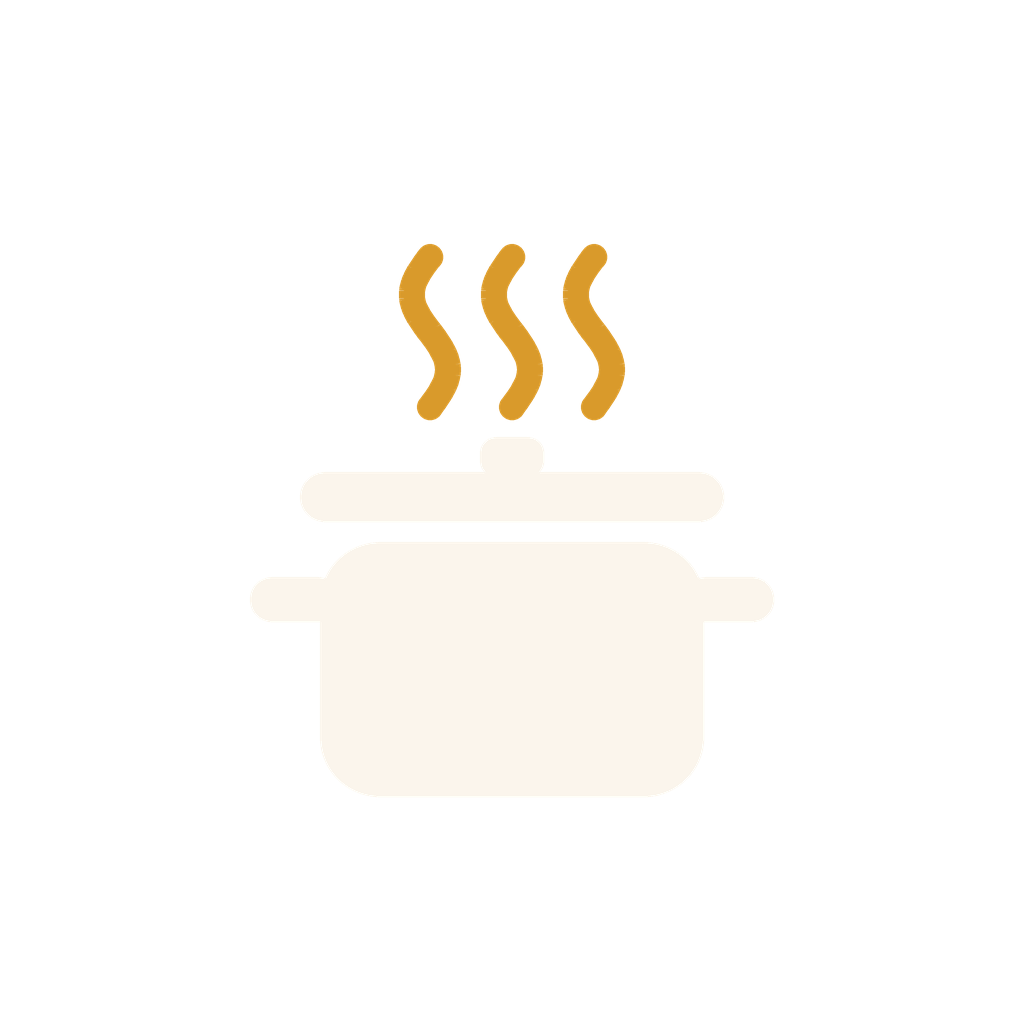
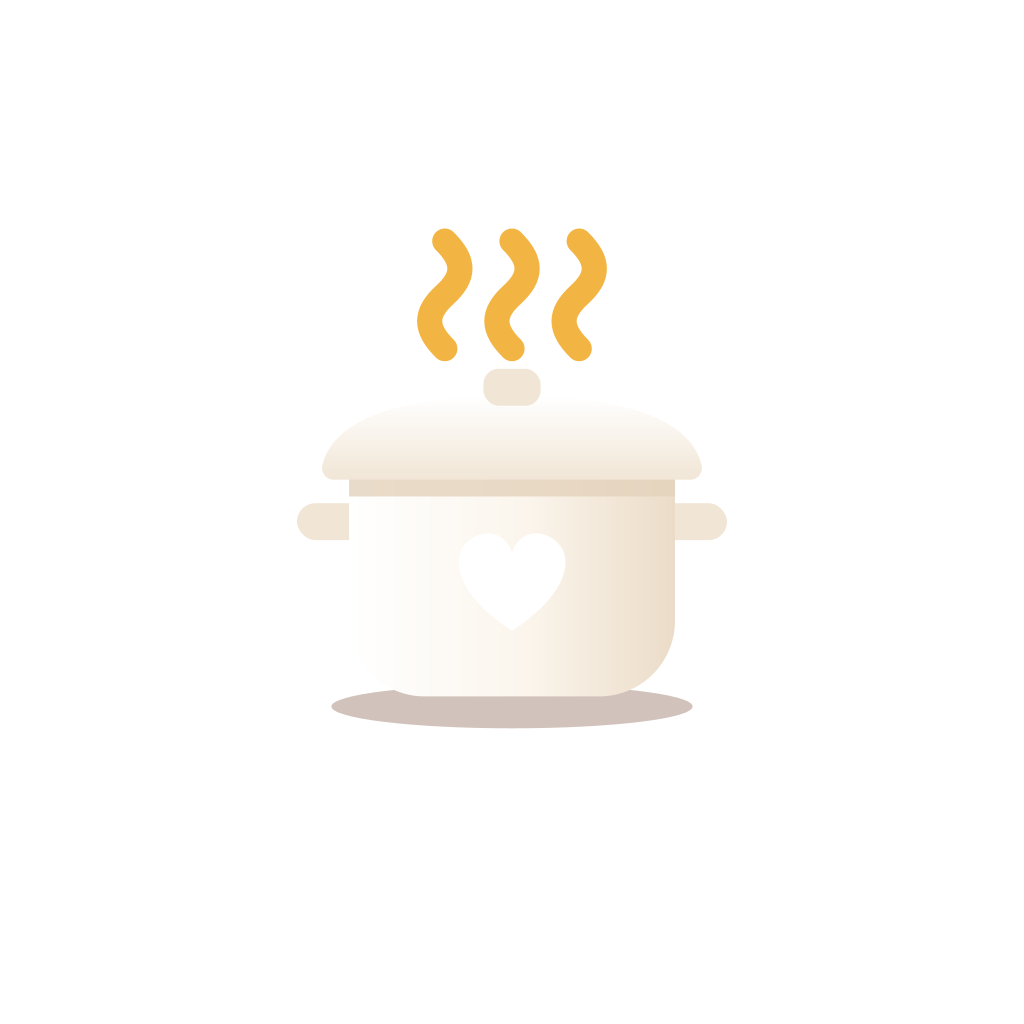
Nouvelle icône : cocotte fumante au cœur
Icône adaptative (fond terre cuite en dégradé, cocotte crème avec un cœur, vapeur safran),
version monochrome pour les icônes à thème d'Android 13+, icône classique, favicon et
écran de démarrage assortis. Le script scripts/icones.py régénère les images.

Claude-Session: https://claude.ai/code/session_01WLQH9YgURFXtHVrZboyv4K

Changed region(s): [[0.3125, 0.2188, 0.7188, 0.7188], [0.2812, 0.5, 0.3438, 0.5312]]

diff --git a/scripts/icones.py b/scripts/icones.py
@@ -1,0 +1,48 @@
+# Génère les icônes de assets/ (pip install cairosvg, puis : python3 scripts/icones.py depuis la racine).
+import cairosvg, sys
+S = '''<svg xmlns="http://www.w3.org/2000/svg" width="1024" height="1024" viewBox="0 0 1024 1024">{}</svg>'''
+DEFS = '''<defs>
+<radialGradient id="bg" cx="30%" cy="25%" r="90%">
+ <stop offset="0" stop-color="#D2703F"/><stop offset="0.55" stop-color="#B4532A"/><stop offset="1" stop-color="#8A3B1B"/></radialGradient>
+<linearGradient id="pot" x1="0" y1="0" x2="1" y2="0">
+ <stop offset="0" stop-color="#FFFFFF"/><stop offset="0.55" stop-color="#FBF5EC"/><stop offset="1" stop-color="#EBDCC8"/></linearGradient>
+<linearGradient id="lid" x1="0" y1="0" x2="0" y2="1">
+ <stop offset="0" stop-color="#FFFFFF"/><stop offset="1" stop-color="#F1E6D6"/></linearGradient>
+</defs>'''
+def fg(mono=False):
+    c = lambda col: '#FFFFFF' if mono else col
+    pot = c('url(#pot)'); lid = c('url(#lid)'); steam = c('#F2B544'); handle = c('#F1E6D6')
+    heart = '#000' if mono else '#B4532A'
+    out = []
+    if not mono:
+        out.append('<ellipse cx="512" cy="742" rx="215" ry="26" fill="#5A2410" opacity="0.28"/>')
+    # steam
+    for x in (432, 512, 592):
+        out.append(f'<path d="M{x} 316 c-24 -24 -24 -42 0 -64 c24 -22 24 -40 0 -64" fill="none" stroke="{steam}" stroke-width="30" stroke-linecap="round"/>')
+    # handles
+    out.append(f'<rect x="256" y="500" width="90" height="44" rx="22" fill="{handle}"/>')
+    out.append(f'<rect x="678" y="500" width="90" height="44" rx="22" fill="{handle}"/>')
+    # body with heart cut out (evenodd)
+    heartd = 'M512 652 C442 606 436 560 464 542 C486 528 506 540 512 558 C518 540 538 528 560 542 C588 560 582 606 512 652 Z'
+    out.append(f'<path fill-rule="evenodd" d="M318 {490 if mono else 470} H706 V640 a90 90 0 0 1 -90 90 H408 a90 90 0 0 1 -90 -90 Z {heartd}" fill="{pot}"/>')
+    # rim band
+    if not mono:
+        out.append('<rect x="318" y="470" width="388" height="22" fill="#E3D2BC" opacity="0.8"/>')
+    # lid
+    out.append(f'<path d="M286 456 C300 392 400 372 512 372 C624 372 724 392 738 456 a14 14 0 0 1 -14 16 H300 a14 14 0 0 1 -14 -16 Z" fill="{lid}"/>')
+    out.append(f'<rect x="478" y="340" width="68" height="44" rx="18" fill="{c("#F1E6D6")}"/>')
+    return '<g transform="translate(512 520) scale(0.84) translate(-512 -520)">'+''.join(out)+'</g>'
+def save(svg, path, size=1024):
+    cairosvg.svg2png(bytestring=svg.encode(), write_to=path, output_width=size, output_height=size)
+bgrect = '<rect width="1024" height="1024" fill="url(#bg)"/>'
+save(S.format(DEFS+bgrect), 'assets/android-icon-background.png')
+save(S.format(DEFS+fg()), 'assets/android-icon-foreground.png')
+# monochrome: heart must be a hole -> use mask
+mono = DEFS + fg(True)
+save(S.format(mono), 'assets/android-icon-monochrome.png')
+# legacy full icon: scale foreground up a bit (adaptive is cropped to 66%)
+full = DEFS + bgrect + '<g transform="translate(512 540) scale(1.3) translate(-512 -540)">'+fg()+'</g>'
+save(S.format(full), 'assets/icon.png')
+save(S.format(full), 'assets/favicon.png', 96)
+splash = DEFS + '<rect x="112" y="112" width="800" height="800" rx="190" fill="url(#bg)"/><g transform="translate(512 540) scale(1.05) translate(-512 -540)">'+fg()+'</g>'
+save(S.format(splash), 'assets/splash-icon.png')
